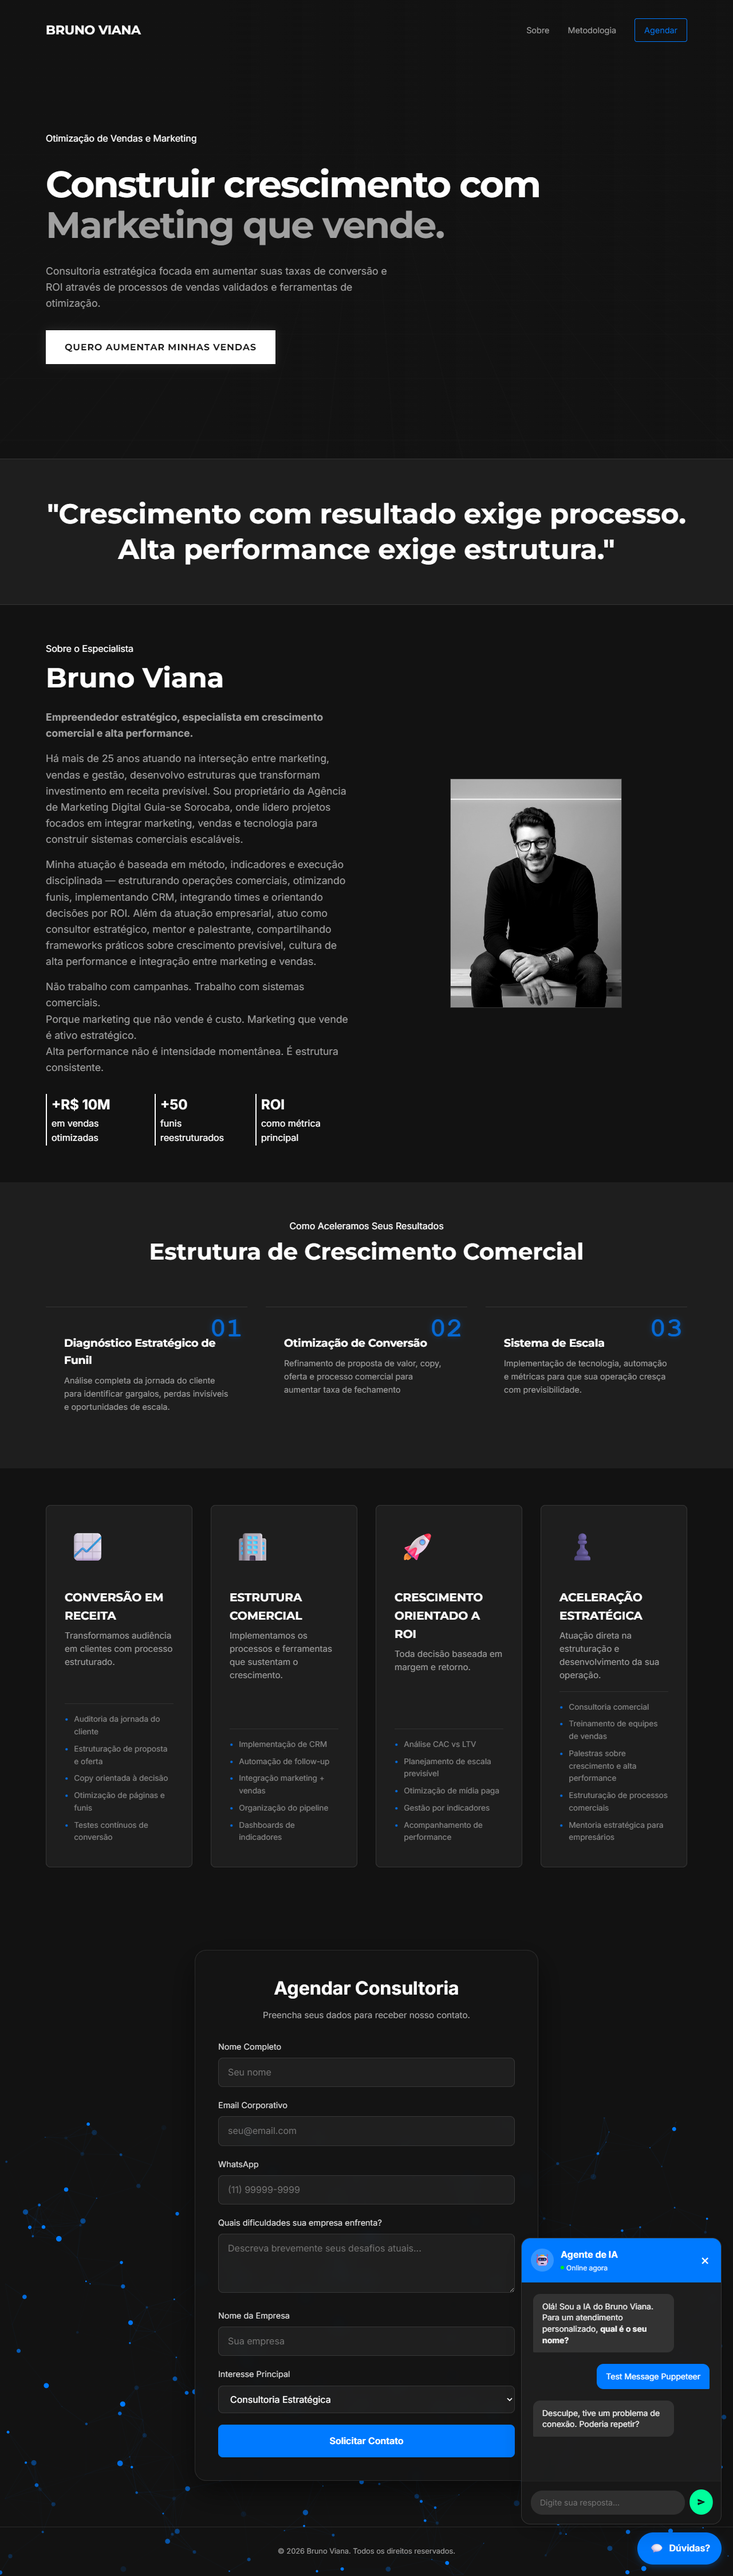
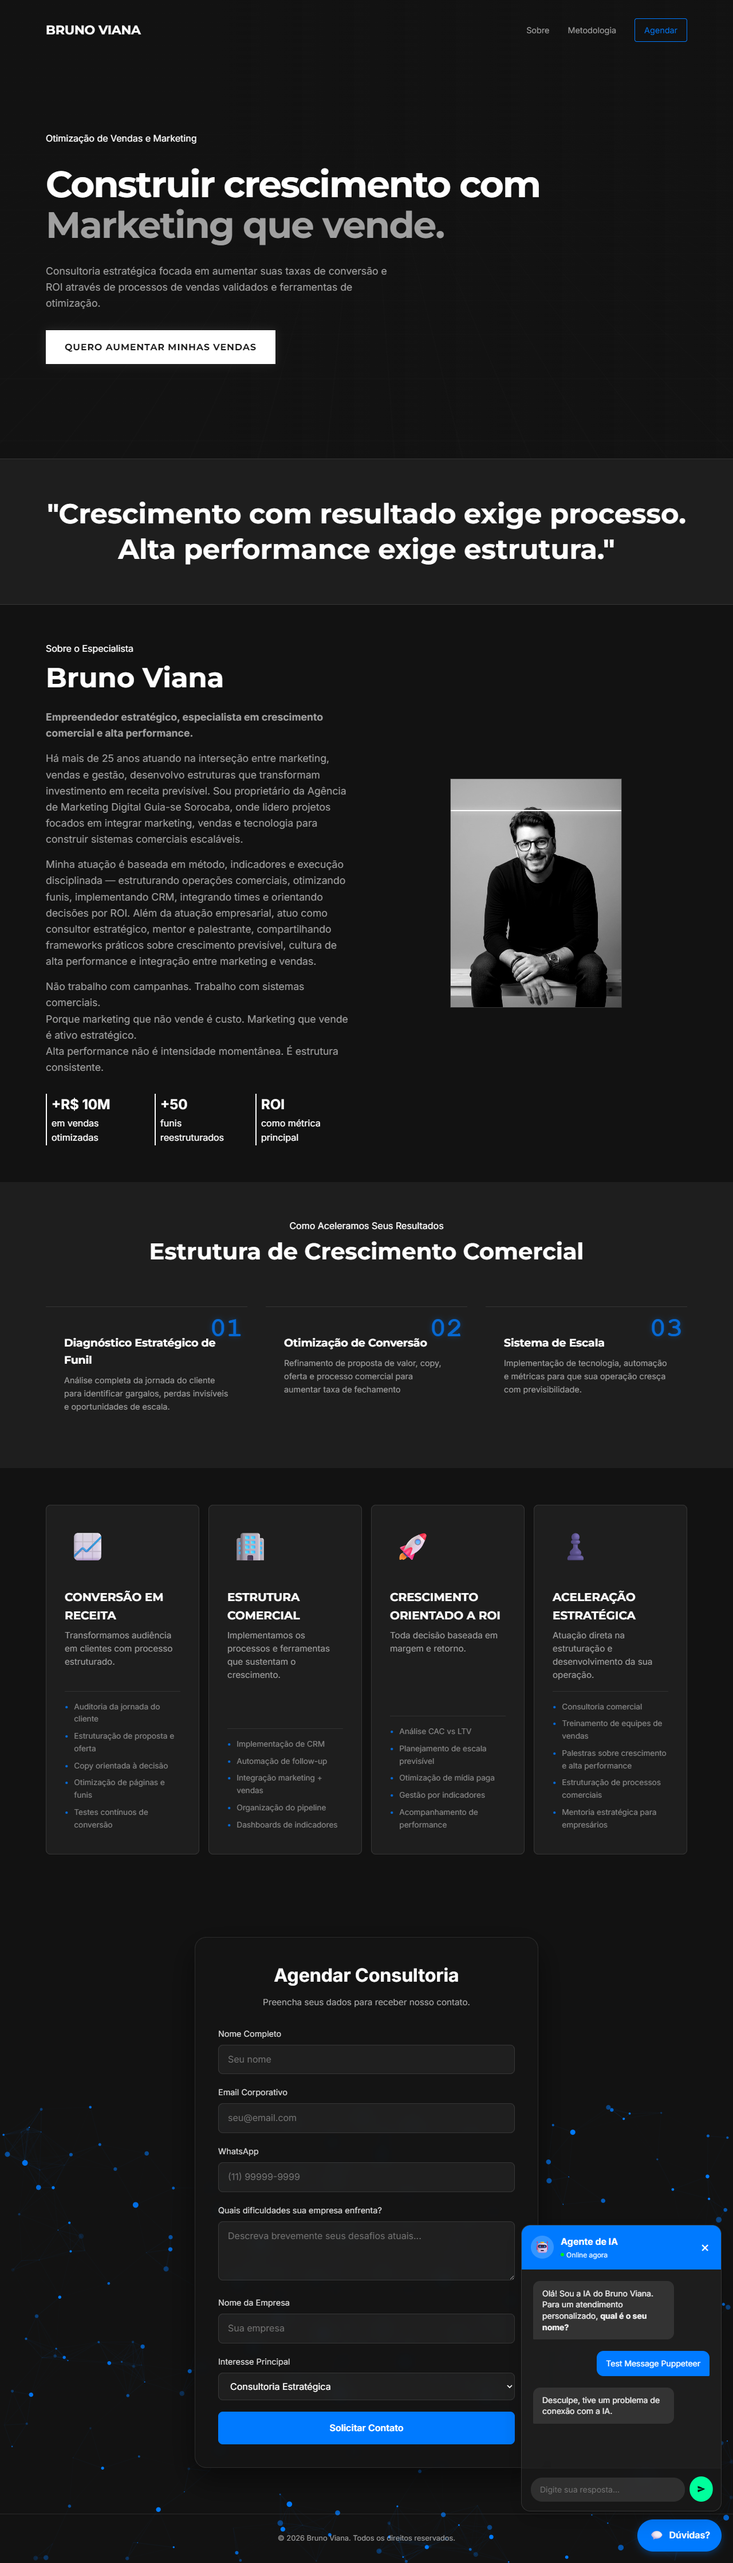
fix: header spacing, chatbot array response, n8n workflow update

diff --git a/css/sections.css b/css/sections.css
@@ -172,33 +172,44 @@
 /* Pillars Section */
 .pillars {
     padding: var(--spacing-xl) 0;
-    background: var(--bg-color); /* Matches theme background */
+    background: var(--bg-color);
+    /* Matches theme background */
 }
 
 .grid-pillars {
     display: grid;
     grid-template-columns: repeat(4, 1fr);
-    gap: var(--spacing-lg); /* Consistent spacing */
+    gap: var(--spacing-md);
+    /* Consistent spacing */
 }
 
 @media (max-width: 1024px) {
     .grid-pillars {
-        grid-template-columns: repeat(2, 1fr); /* 2 columns on tablet */
+        grid-template-columns: repeat(2, 1fr);
+        gap: var(--spacing-lg);
     }
 }
 
 @media (max-width: 768px) {
+    .pillars {
+        padding: var(--spacing-xl) 0;
+    }
+
     .grid-pillars {
-        grid-template-columns: 1fr; /* 1 column on mobile */
+        grid-template-columns: 1fr;
+        /* 1 column on mobile */
     }
 }
 
 .pillar-card {
     background: var(--surface-color);
     border: 1px solid var(--border-color);
-    padding: var(--spacing-lg); /* Adequate inner spacing */
-    border-radius: 8px; /* Consistent corner radius */
-    text-align: left; /* Improved readability */
+    padding: var(--spacing-lg);
+    /* Adequate inner spacing */
+    border-radius: 8px;
+    /* Consistent corner radius */
+    text-align: left;
+    /* Improved readability */
     transition: transform 0.3s ease, box-shadow 0.3s ease;
     /* Smooth hover effect transition */
     display: flex;
@@ -209,31 +220,39 @@
 }
 
 .pillar-card:hover {
-    transform: translateY(-5px); /* Lift effect */
-    box-shadow: 0 10px 30px rgba(0, 0, 0, 0.5); /* Depth on hover */
-    border-color: var(--accent-color); /* Highlight border on hover */
+    transform: translateY(-5px);
+    /* Lift effect */
+    box-shadow: 0 10px 30px rgba(0, 0, 0, 0.5);
+    /* Depth on hover */
+    border-color: var(--accent-color);
+    /* Highlight border on hover */
 }
 
 .pillar-card h3 {
     margin-top: var(--spacing-md);
     margin-bottom: var(--spacing-sm);
     font-family: var(--font-heading);
-    font-size: 1.25rem; /* Distinct heading size */
+    font-size: 1.25rem;
+    /* Distinct heading size */
     color: var(--text-primary);
 }
 
 .pillar-card p {
     color: var(--text-secondary);
-    font-size: 0.95rem; /* Readable body text */
+    font-size: 0.95rem;
+    /* Readable body text */
     margin-bottom: var(--spacing-md);
-    flex-grow: 1; /* Pushes list to the bottom if content varies */
+    flex-grow: 1;
+    /* Pushes list to the bottom if content varies */
 }
 
 .pillar-details {
-    list-style: none; /* Remove bullets */
+    list-style: none;
+    /* Remove bullets */
     padding: 0;
     margin: 0;
-    border-top: 1px solid var(--border-color); /* visual separation */
+    border-top: 1px solid var(--border-color);
+    /* visual separation */
     padding-top: var(--spacing-md);
 }
 
@@ -242,12 +261,14 @@
     color: var(--text-secondary);
     margin-bottom: var(--spacing-sm);
     position: relative;
-    padding-left: 1.2em; /* Space for custom bullet */
+    padding-left: 1.2em;
+    /* Space for custom bullet */
 }
 
 .pillar-details li::before {
     content: '•';
-    color: var(--accent-color); /* Accent colored bullet */
+    color: var(--accent-color);
+    /* Accent colored bullet */
     position: absolute;
     left: 0;
     font-weight: bold;

diff --git a/js/chat-floating.js b/js/chat-floating.js
@@ -45,7 +45,10 @@ document.addEventListener('DOMContentLoaded', () => {
 
                 if (response.ok) {
                     const jsonResponse = await response.json();
-                    return jsonResponse; // Expecting { output: "AI response" } or similar from n8n Agent
+
+                    // Handle n8n array response
+                    const data = Array.isArray(jsonResponse) ? jsonResponse[0] : jsonResponse;
+                    return data; // Returns { output: "..." }
                 } else {
                     console.error(`HTTP Error: ${response.status}`);
                     return null;
@@ -157,7 +160,7 @@ document.addEventListener('DOMContentLoaded', () => {
             } else {
                 // Fallback if AI fails or format is weird
                 console.warn("AI Response format unknown:", aiResponse);
-                addMessage("Desculpe, tive um problema de conexão. Poderia repetir?", 'system');
+                addMessage("Desculpe, tive um problema de conexão com a IA.", 'system');
             }
         }
     }

diff --git a/css/layout.css b/css/layout.css
@@ -19,6 +19,8 @@
     display: flex;
     justify-content: space-between;
     align-items: center;
+    gap: var(--spacing-xl);
+    /* Force spacing between logo and nav */
 }
 
 .nav-menu {
